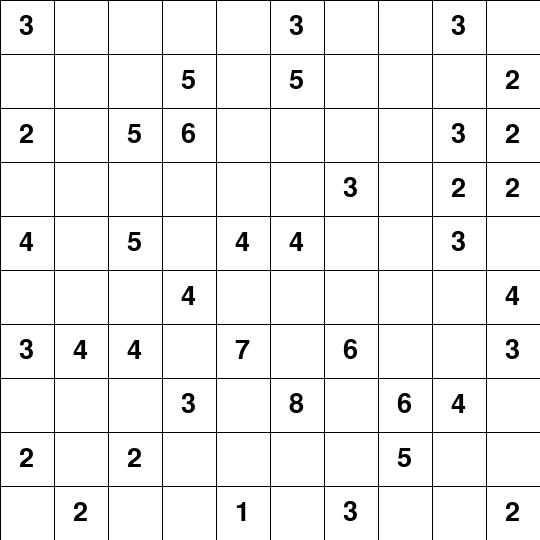
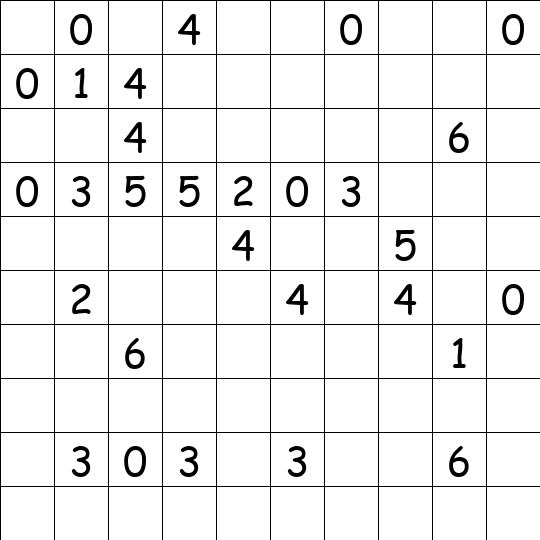
Applied 9x9 Rule, poggies result

diff --git a/generator/mosaicSolver.py b/generator/mosaicSolver.py
@@ -283,12 +283,12 @@ class Solver:
                 if self.found_solution_hash == 0:
                     #print("Found new Solution")
                     self.found_solution_hash = _hash
-                    self.print_final_solution()
+                    #self.print_final_solution()
 
                     self.found_solutions += 1
                 elif self.found_solution_hash != _hash:
                     #print("Found a second Solution")
-                    self.print_final_solution()
+                    #self.print_final_solution()
                     self.found_solutions += 1
                     return -1
 
@@ -508,7 +508,7 @@ class Solver:
         # Validate
         #print(self.valid_solution())
 
-        self.print_final_solution()
+        #self.print_final_solution()
 
         x = 0
 
@@ -558,7 +558,7 @@ class Solver:
         # We want to encourage taking the lowest number (higher numbers are easy)
         take_higher_number = random.random() < 0.2
 
-        print("Restricted Amount: " + str(restricted) + " Black Amount: " + str(blacks) + " We want to pick higher: " + str(take_higher_number))
+        #print("Restricted Amount: " + str(restricted) + " Black Amount: " + str(blacks) + " We want to pick higher: " + str(take_higher_number))
         if take_higher_number:
             # we do the opposite of what we would usually do
             do_restriction = not do_restriction
@@ -621,10 +621,10 @@ class Solver:
                 start_clue = other_clue
                 start_value = other_value
 
-            print(str(other_clue) + " This Value is : " + str(other_value))
+            #print(str(other_clue) + " This Value is : " + str(other_value))
 
         if start_value != -10:
-            print("Picking clue at " + str(start_clue[0]) + " " + str(start_clue[1]) + " with value " + str(start_value))
+            #print("Picking clue at " + str(start_clue[0]) + " " + str(start_clue[1]) + " with value " + str(start_value))
             self.pick_clue_at(start_clue[0], start_clue[1])
             return True
 
@@ -645,16 +645,46 @@ class Solver:
         while_breaker = 5000
         while while_breaker > 0 and clues_left >= 0:
             while_breaker -= 1
-
+            # Here random Clues are added to the board
             if self.choose_good_clue_position(clues_left / amount_of_clues):
                 clues_left -= 1
 
-            print("Step " + str(5000- while_breaker))
+        # Employ the 9x9 Empty area rule
+        # => There ought not to be any 9x9 area in our puzzle that isn't covered by any clue
 
-            print("Current Solution:")
-            self.print_final_solution()
-            print("Current Clues:")
-            self.print_final_clue()
+        # Fill matrix with -1 where ever a clue is in a 9x9 area
+        self.constructed_solution = [[0 for j in range(self.board_size)] for i in range(self.board_size)]
+        x = 0
+
+        for row in self.clues:
+            y = 0
+            for col in row:
+                if col <= 0:
+                    self.restrict_around(x,y)
+                y += 1
+            x += 1
+        #self.print_board(self.constructed_solution)
+
+        x = 0
+        # Where ever there is a 0, we need put a clue around
+        for row in self.constructed_solution:
+            y = 0
+            for col in row:
+                if col == 0:
+                    # Randomize x and y position for niceness
+                    # The value is clamped as not to reach out of bounds
+                    rand_x = max(0, min(random.randint(-1, 1) + x, self.board_size -1))
+                    rand_y = max(0, min(random.randint(-1, 1) + y, self.board_size -1))
+
+                    # Pick Clue here
+                    self.pick_clue_at(rand_x, rand_y)
+
+                    # Restrict Further
+                    self.restrict_around(rand_x,rand_y)
+
+                y += 1
+            x += 1
+
 
         x = 0
         # Cleanup Clue Board

diff --git a/generator/mosaicGenerator.py b/generator/mosaicGenerator.py
@@ -120,9 +120,9 @@ def draw_window(surface, board):
 def main():
 
     size = 10
-    quantity = 35
+    quantity = 15
     prob = 0.5
-    num_inst = 1
+    num_inst = 5
     fname = "instances/"
 
     # size = int(sys.argv[1])
@@ -141,7 +141,7 @@ def main():
         #sol = generateRandomSolution(size, prob)
         # List of Numbers indicating Neighbors
         #board = generateBoardFromSolution(size, sol, quantity)
-        board = solver.create_board(quantity, 6)
+        board = solver.create_board(quantity, 6+ i)
 
         grid = Grid(size, board, 540, 540)
 
